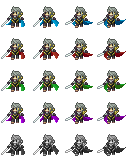
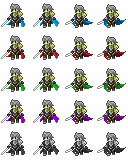
Fixed nohr-noble-m

diff --git a/splitter.py b/splitter.py
@@ -281,6 +281,11 @@ HEAD_PARAMS = {
         'size': 'large',
         'reverse': True,
         },
+    'nohr-noble-m': {
+        'offset': [(-1,3),(-1,3),(-1,2),(-1,2),],
+        'size': 'large',
+        'reverse': True,
+        },
     'wyvern-lord': {
         'offset': [(-2,0),(-2,-2),(-2,-1),(-2,-1),],
         'size': 'small',
